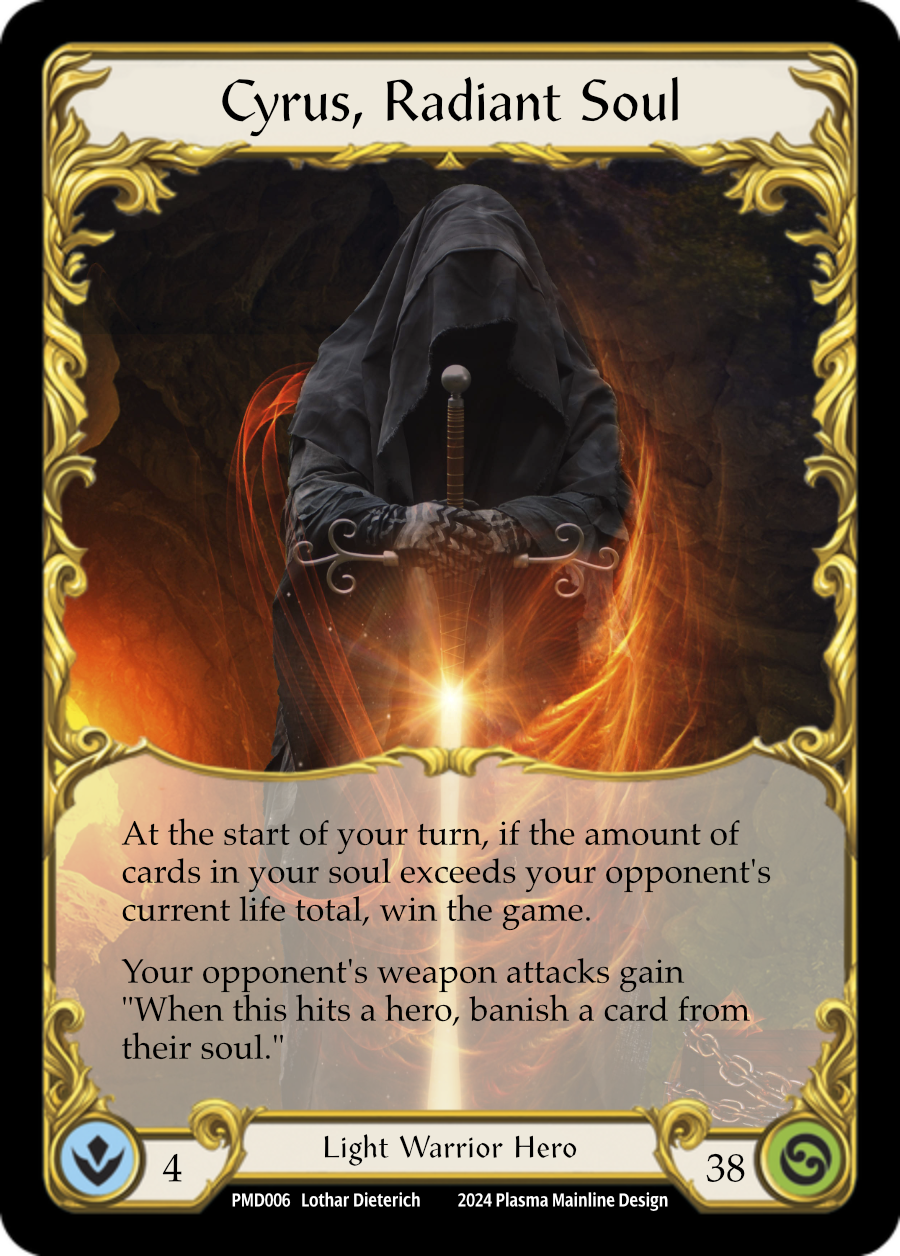
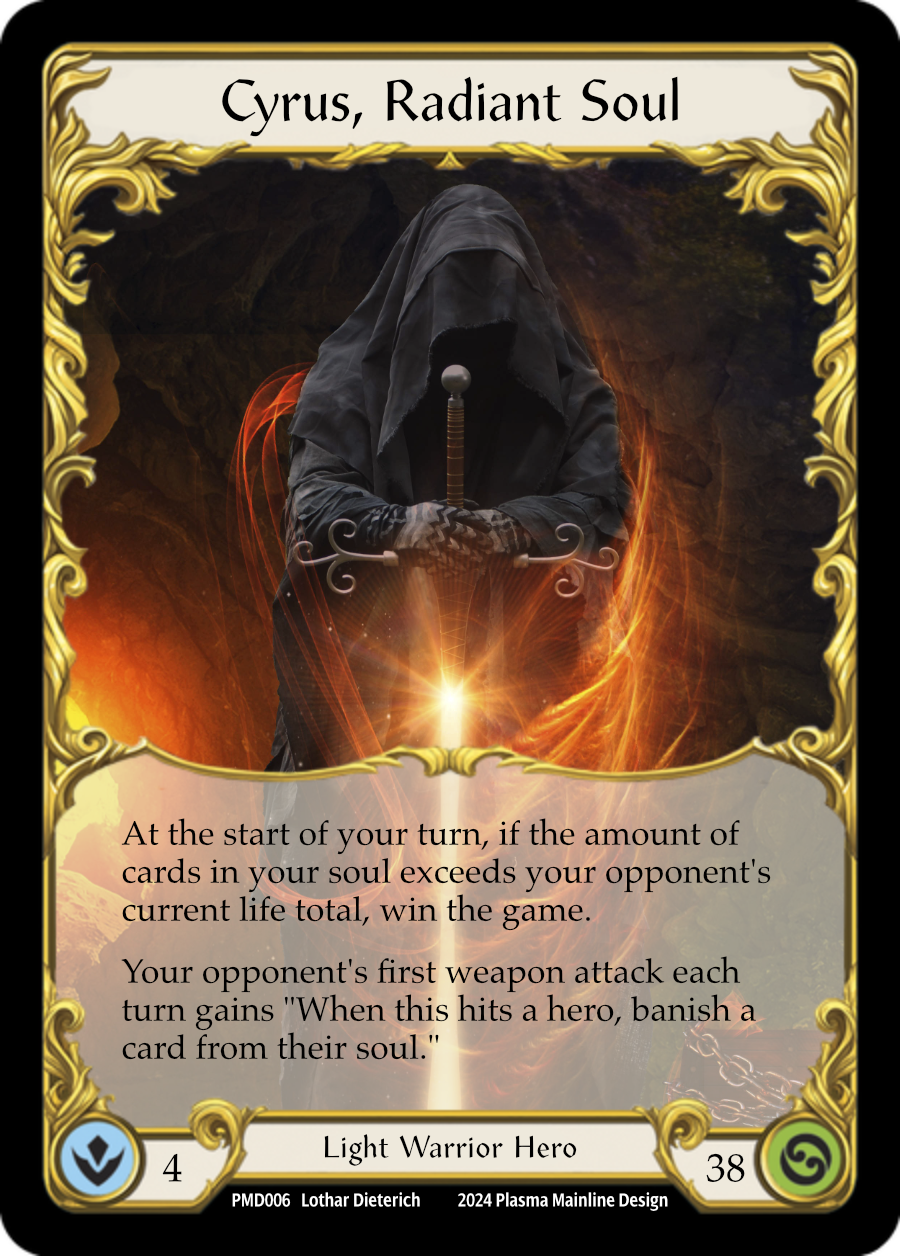
clarifications

Changed region(s): [[0.1244, 0.7452, 0.84, 0.8694]]

diff --git a/_posts/2024-03-15-wincon.md b/_posts/2024-03-15-wincon.md
@@ -105,7 +105,7 @@ So how does this hero satisfy the three design principles outlined above?
 
 - __Unique playstyle:__ Since its inception, Flesh and Blood has seen a few heroes that build a board state (Mechanologists and Illusionists) and use this power of permanents in the arena to put themselves in a position to win. Similarly, Cyrus tries to amass a critical mass of cards in soul (semi-permanents) and push through just enough damage to bring their opponent's life down to that threshold. This unique application of soul is very different from other heroes, even to those that share the Light talent, like the game's Light Warrior, Boltyn, who aims to __charge__ his soul to make his attacks harder to block and expend the cards in soul to gain __go again__ at opportune times.
 
-- __Counterplay:__ Though the Shadow talent has a few cards that target soul directly, like _Lunartide Plunderer_ or _Nasreth, the Soul Harrower_, most heroes cannot interact with soul directly. This is why Cyrus features a detrimental clause that makes weapons target his soul. This probably makes Ninjas a very annoying matchup if they constantly swing with _Kodachis_. At the same time, weapons without an attack value, like _Storm of Sandikai_, do not benefit from this effect. Nevertheless, this offers counterplay to a wide range of heroes, even if Rangers, Illusionists, and Wizards do not benefit from it. Each deck has good and bad matchups though, right?
+- __Counterplay:__ Though the Shadow talent has a few cards that target soul directly, like _Lunartide Plunderer_ or _Nasreth, the Soul Harrower_, most heroes cannot interact with soul directly. This is why Cyrus features a detrimental clause that makes weapons target his soul. This probably makes Ninjas an annoying matchup if they swing with _Kodachi_ every turn. At the same time, weapons without an attack value, like _Storm of Sandikai_, do not benefit from this effect. Nevertheless, this offers counterplay to a wide range of heroes, even if Rangers, Illusionists, and Wizards do not benefit from it. In this case, I do not believe this would be a big issue since __charging__ is expensive card economy-wise (in Cyrus, you spend two cards to effectively attack for 3 or 4, and 1 unpreventable damage in the form of soul). It just means these classes are slightly less favoured than classes with access to conventional weapons.
 
 {% include carousel.html duration="7" number="6" %}
 

diff --git a/_posts/2024-03-08-variablepitch.md b/_posts/2024-03-08-variablepitch.md
@@ -57,6 +57,8 @@ Where a card like this could truly shine though, is in a Ranger deck. Rangers ha
 
 ![New Horizon](https://dhhim4ltzu1pj.cloudfront.net/media/images/U-ELE213.width-450.format-webp.webp){: width="200" .normal} ![Dead Eye](https://dhhim4ltzu1pj.cloudfront.net/media/images/DYN155.width-450.format-webp.webp){: width="200" .normal} ![Melting Point](https://dhhim4ltzu1pj.cloudfront.net/media/images/OUT105.width-450.format-webp.webp){: width="200" .normal}
 
+(_Clarification_: Though the Gem subtype and border have only appeared at Fabled rarity, I am not suggesting printing powerful cards at this rarity. I would expect all examples here to fall in the Majestic or Legendary rarity level.)
+
 ### Combat chain interaction
 Another opportunity for interaction between resources and game state is of course the combat chain. A first idea may be to generate resources based on the length of the combat chain, but this could get out of hand quickly in the Ninja decks. Instead, I would like to focus on generating resources when the combat chain closes:
 
